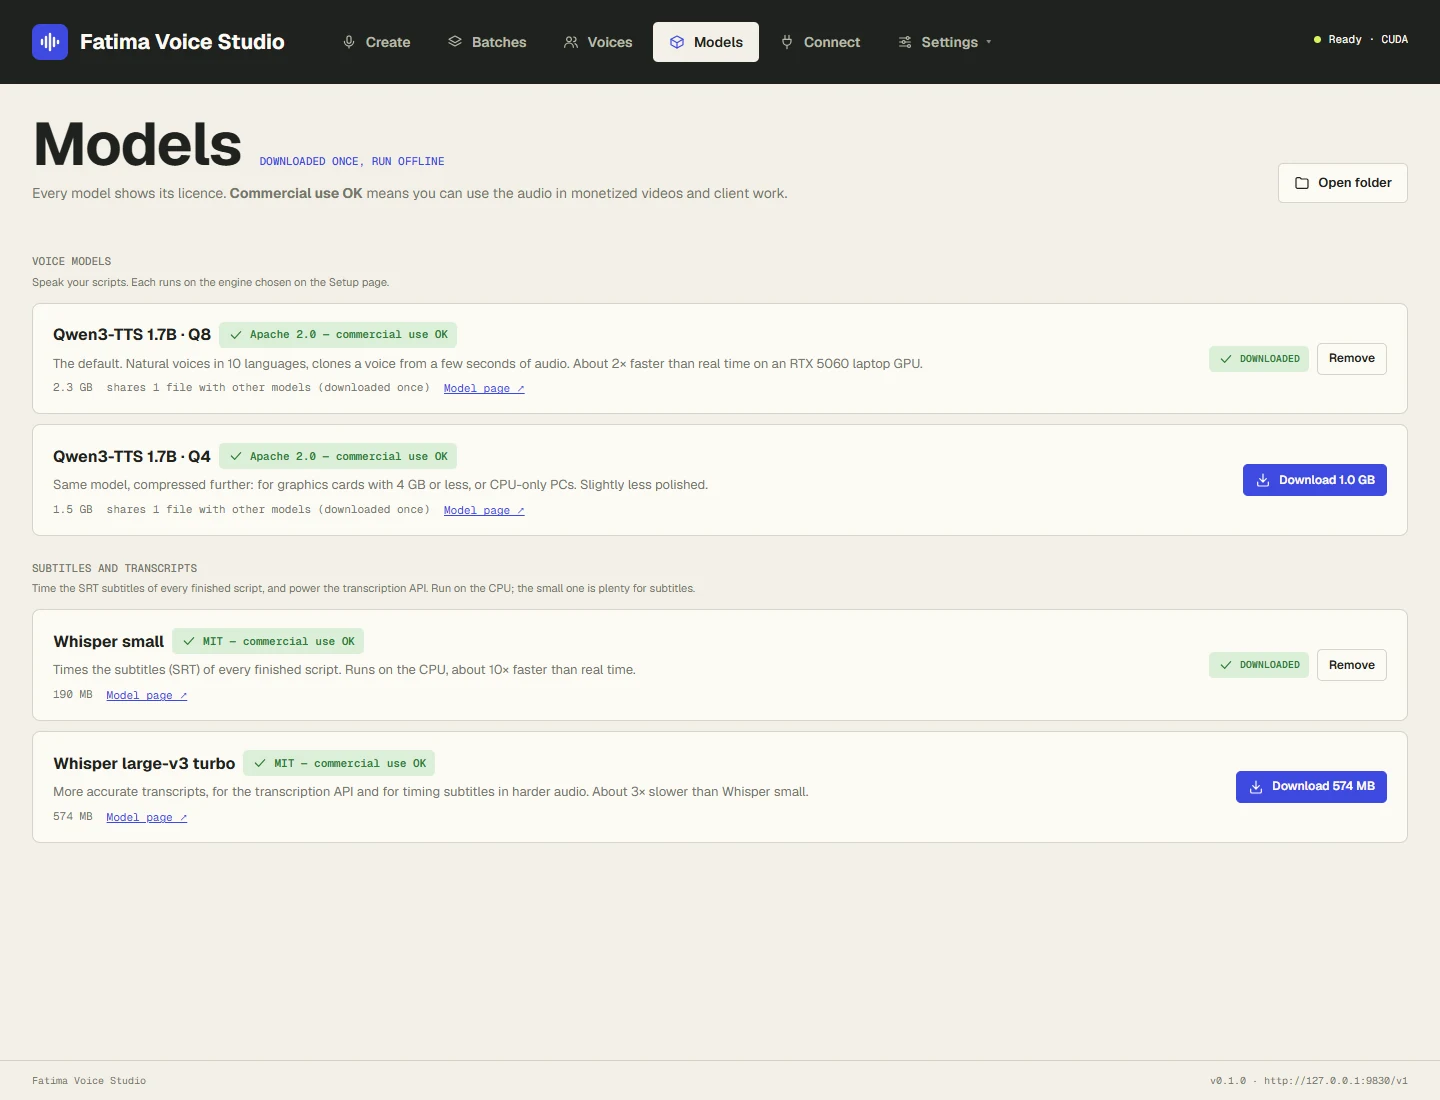
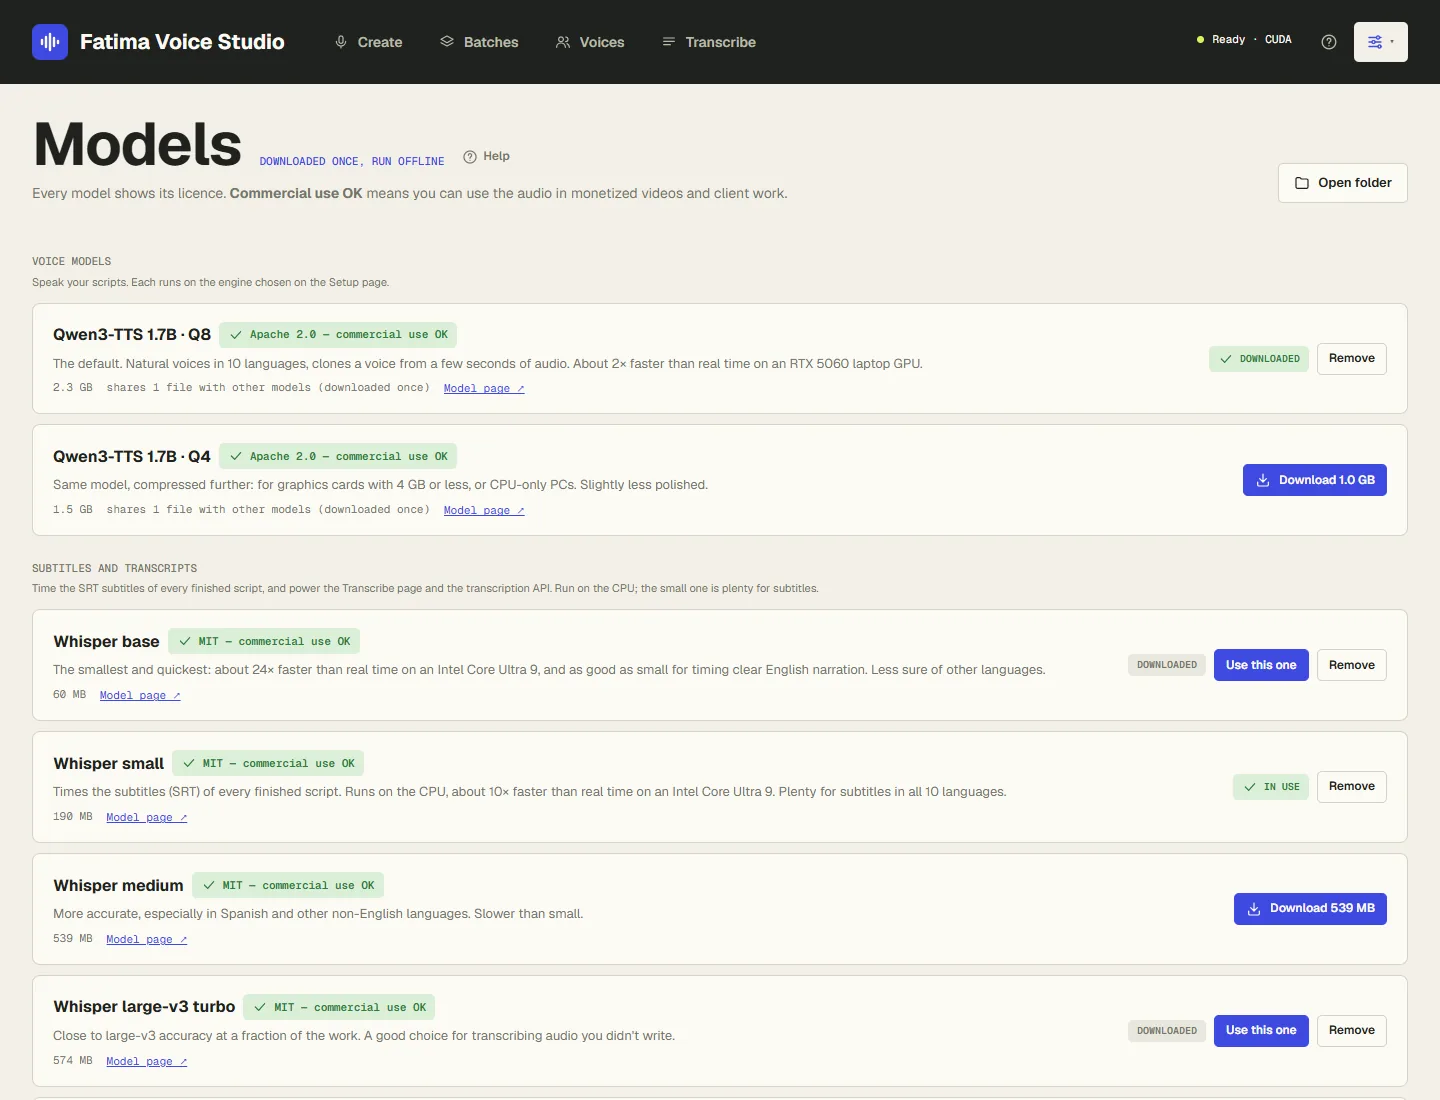
New screenshots for the README and the guides (0.2.4 look)
The six screenshots are retaken from the app as it is now: the new top
bar and menu, audio players with waveforms, voice cards, part strips and
the made-today tiles. Three new ones: Settings (in the Settings guide),
About (in Troubleshooting, under "Still stuck?") and a batch in dark mode.
The README gallery shows all of them, with the audio samples in a line
below.

Taken at 1440x1100 with Playwright and Edge from the dev copy. In the
shots, personal details are swapped in the page: the API key is masked,
folder paths use C:\Users\You, the port shows 9830, and the Singles batch
of real takes is left out.

diff --git a/README.md b/README.md
@@ -16,7 +16,7 @@ On a laptop RTX 5060 (8 GB) it speaks about **2.2× faster than real time**: a 1
 
 The sibling of [Fatima Image Studio](https://github.com/hassanxs/Fatima-Image-Studio).
 
-![Fatima Voice Studio: a batch of three scripts on the Create page, with another batch speaking in the queue](studio/help/images/create.webp)
+![Fatima Voice Studio: three scripts in Batch mode on the Create page, with the queue and how much audio you've made](studio/help/images/create.webp)
 
 ## Screenshots
 
@@ -25,8 +25,14 @@ The sibling of [Fatima Image Studio](https://github.com/hassanxs/Fatima-Image-St
 | ![Batches page: every batch is a folder on disk](studio/help/images/batches.webp) | ![A batch: each script with its WAV, MP3 and SRT, and every part with New take and Edit](studio/help/images/batch.webp) |
 | **Voices** | **Setup** |
 | ![Voices page: add a clip, or find a brand-new voice](studio/help/images/voices.webp) | ![Setup page: hardware check, recommended engine and model, speed test](studio/help/images/setup.webp) |
-| **Models** | **Hear it** |
-| ![Models page: every model with its licence](studio/help/images/models.webp) | [English sample](docs/samples/english-nova.mp3) (18 s) · [Spanish sample](docs/samples/spanish-lucia.mp3) (17 s)<br><br>Both made in the app on a laptop RTX 5060, with *found* voices (voices the model invented, nobody's real voice), levelled to −16 LUFS. |
+| **Models** | **Settings** |
+| ![Models page: every model with its licence](studio/help/images/models.webp) | ![Settings: defaults, speech, files, folders, appearance and updates](studio/help/images/settings.webp) |
+| **Dark mode** | **About** |
+| ![A batch in dark mode](studio/help/images/batch-dark.webp) | ![About: version, model licences, and this PC's details to copy into a problem report](studio/help/images/about.webp) |
+
+**Hear it:** [English sample](docs/samples/english-nova.mp3) (18 s) · [Spanish sample](docs/samples/spanish-lucia.mp3) (17 s).
+Both made in the app on a laptop RTX 5060, with *found* voices (voices the model invented, nobody's real voice),
+levelled to −16 LUFS.
 
 ## Download and install
 

diff --git a/studio/help/troubleshooting.md b/studio/help/troubleshooting.md
@@ -151,6 +151,8 @@ come from git instead. You can always install a new version by running its insta
 
 ## Still stuck?
 
+![The About page: the version, your models' licences, and This PC with Copy details and Report a problem](images/about.webp)
+
 1. Open the log: **Settings → Folders → Logs**. `studio.log` (the app) and `engine.log` (the engine) say what went wrong, in more
    detail than the page.
 2. Open **About** (in the menu at the top right) and click **Copy details**: your version, Windows, graphics card,

diff --git a/studio/help/settings.md b/studio/help/settings.md
@@ -5,6 +5,8 @@ Open the menu button at the top right (the sliders icon, next to **?**). Its men
 **Connect** (see [Connect](connect.md)) and **About**: the version, the licences, and your PC's details to copy
 into a problem report.
 
+![The Settings page: defaults and speech on the left, files and folders in the middle, App and Updates on the right](images/settings.webp)
+
 Every change on the Settings page is saved as soon as you make it.
 
 ## Defaults for new scripts

diff --git a/studio/help/batches.md b/studio/help/batches.md
@@ -33,7 +33,7 @@ too, in one *Singles* batch per day.
 
 ## A batch's page
 
-![A batch: each script with its player and files, and the parts below it](images/batch.webp)
+![A batch: each script with its player and files, and the parts below it, each with a coloured strip](images/batch.webp)
 
 At the top: the name (click the pencil to **rename** it; the folder is renamed too), the status, and how far along
 it is. The buttons:
